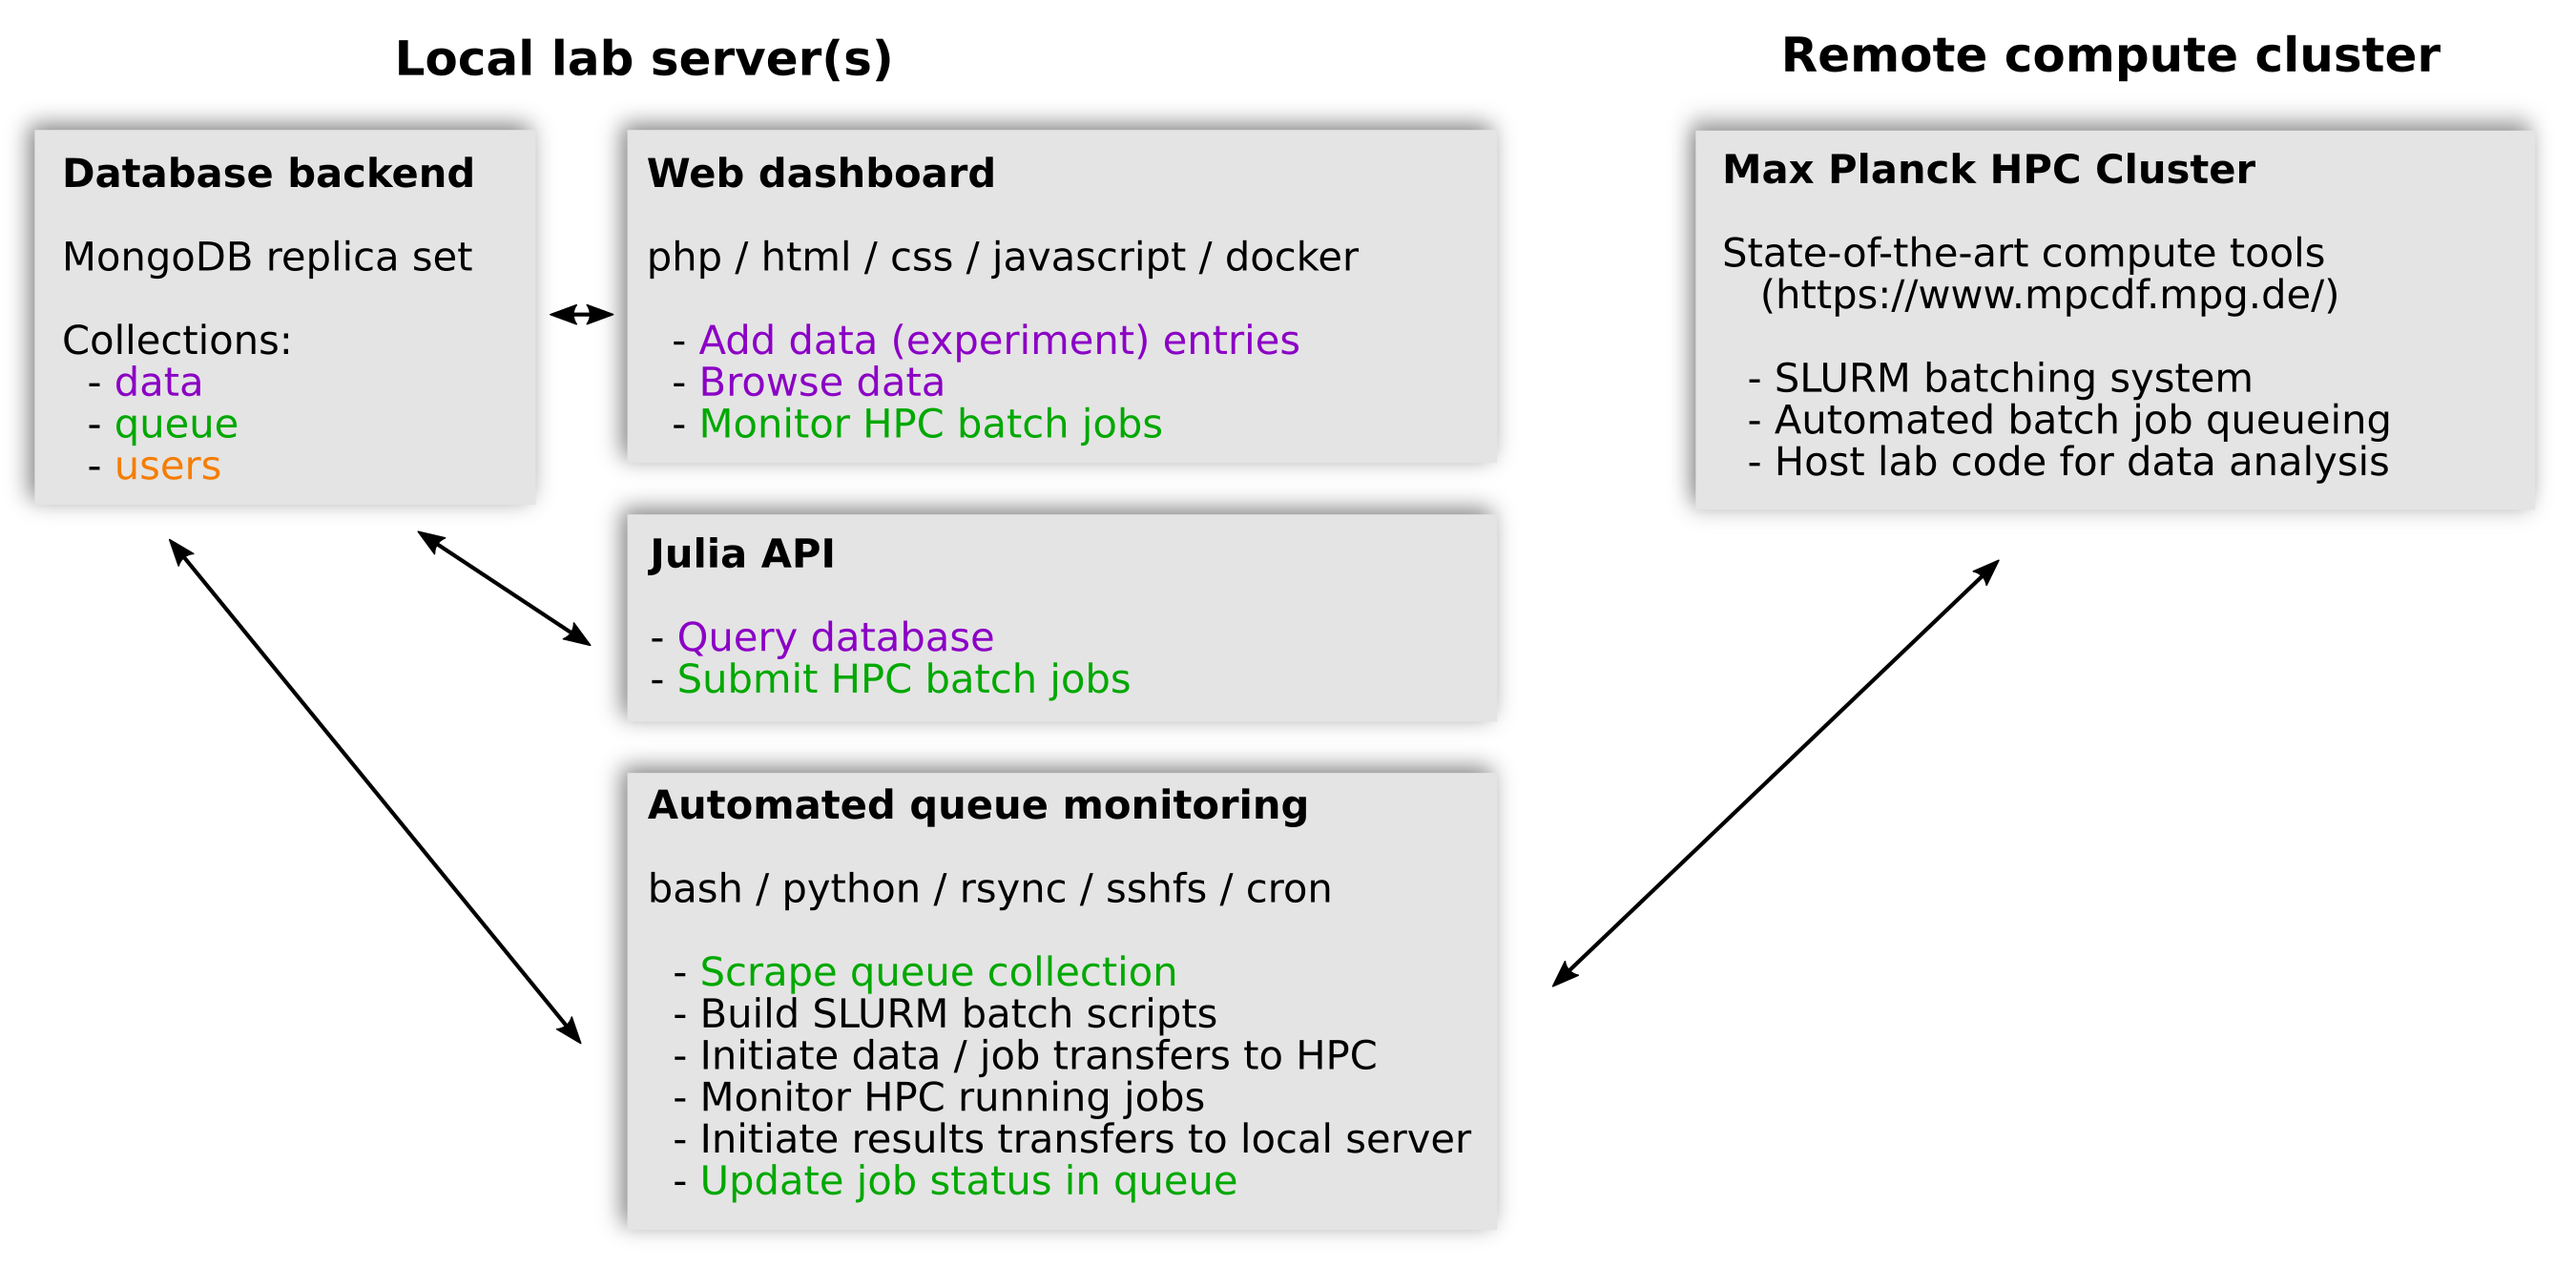
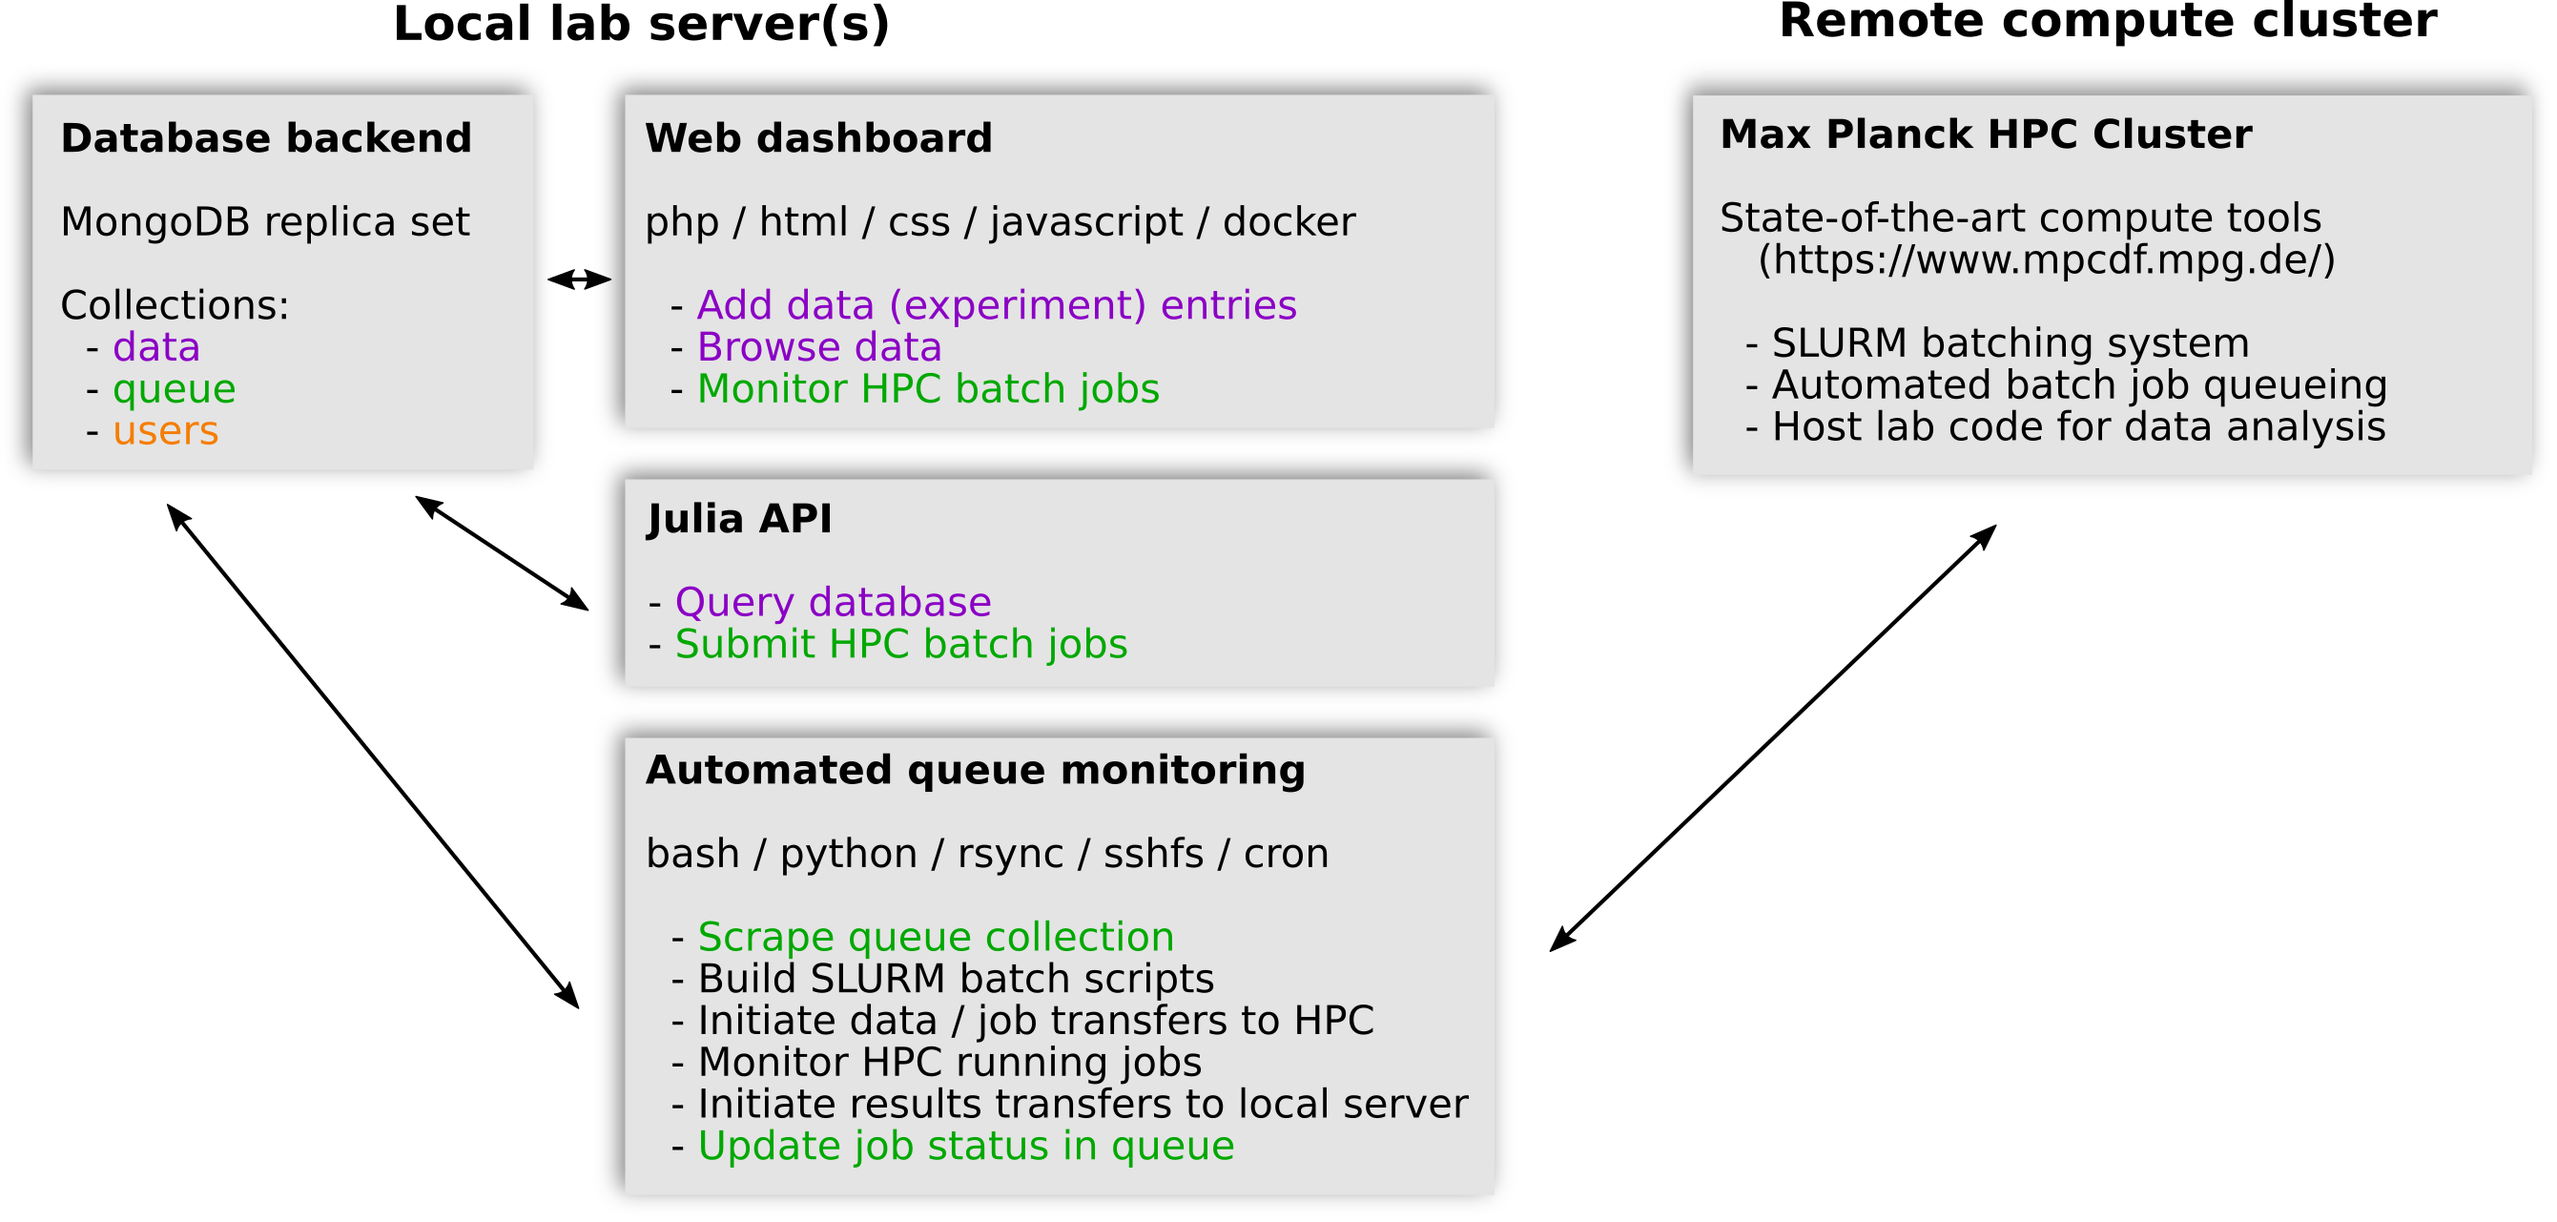
fix fig background, add certificates

diff --git a/_news/announcement_1.md b/_news/announcement_1.md
@@ -5,4 +5,4 @@ inline: true
 related_posts: false
 ---
 
-Hello world! Stay tuned for updates... I am still in the process of completing my portfolio
+Hello world! Stay tuned for updates... I am still in the process of building my portfolio
